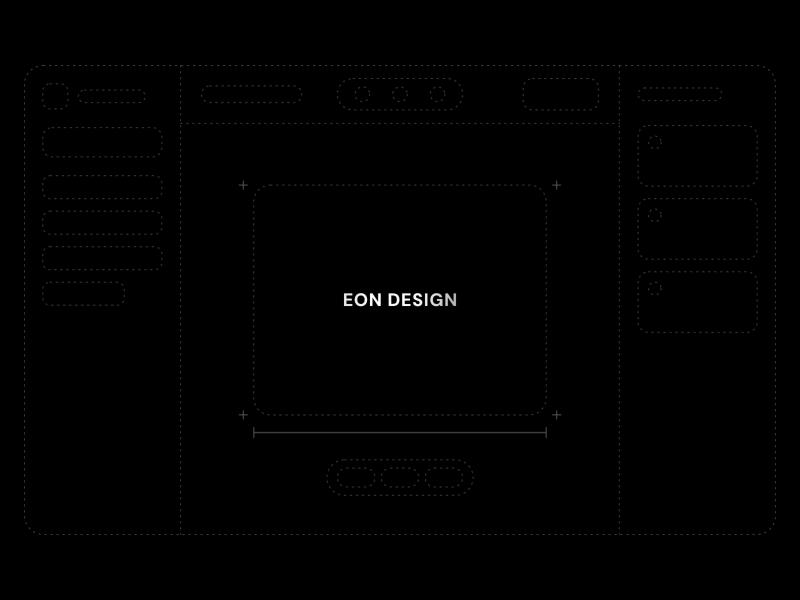
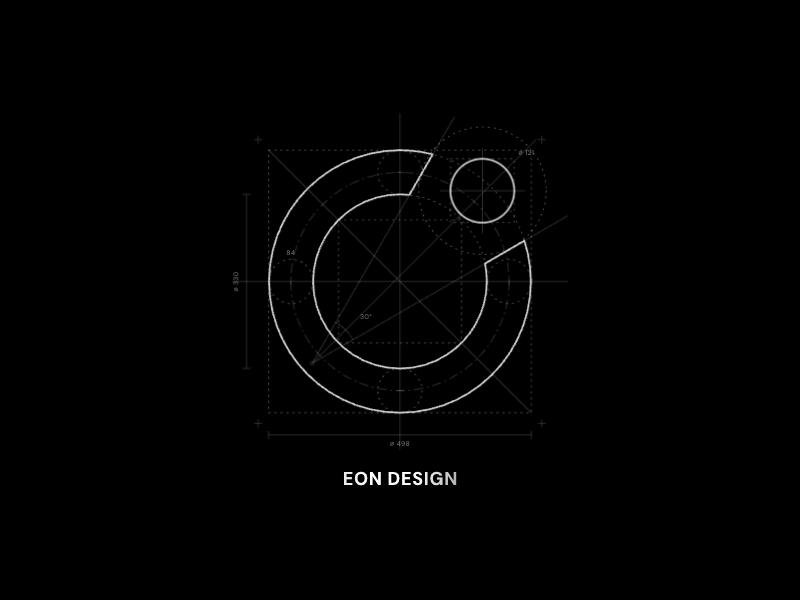
Loading screen: construct the Eon mark as a blueprint above the title

diff --git a/src/components/LoadingScreen.jsx b/src/components/LoadingScreen.jsx
@@ -1,56 +1,90 @@
 // Full-screen loading state, shared by the app splash (auth/chunk loads) and
-// the hub's first data fetch. Behind the title, a dotted blueprint of the hub
-// (sidebar, toolbar, canvas, comments) assembles piece by piece; a light
-// sweeps across the title. The status line is for screen readers only.
+// the hub's first data fetch. Above the title, the Eon mark is constructed
+// like a logo sheet: axes, circles and guide lines assemble, then the mark is
+// drawn over them. A light sweeps across the title. The status line is for
+// screen readers only.
 
-// Each part enters from the side it lives on. `i` is its place in the stagger.
+// Geometry of the mark, with the ring's centre at 0,0 (see public/favicon.svg).
+// R/r: outer and inner ring radius. M: the band's centre line. W: half the
+// band. The cut faces fan out 15 degrees either side of a 45 degree bisector
+// from V; the dot (D, radius DR) sits on that bisector, and a circle of twice
+// its radius touches both faces.
+const R = 249;
+const r = 165;
+const M = 207;
+const W = 42;
+const V = [-166.7, 155.3];
+const D = [156.2, -172.1];
+const DR = 60.5;
+const SQ = 116.7; // half side of the square inscribed in the inner circle
+const MARK = "M 236.0 -77.3 L 161.2 -34.0 C 163.5 -23.1 164.7 -11.7 164.7 -0.0 C 164.7 58.3 134.4 109.8 88.6 139.1 C 63.0 155.6 32.6 165.1 0.0 165.1 C -90.8 165.1 -164.7 91.0 -164.7 -0.0 C -164.7 -44.6 -147.0 -85.1 -118.2 -114.9 C -88.3 -145.9 -46.4 -165.2 0.0 -165.2 C 6.0 -165.2 11.9 -164.9 17.8 -164.2 L 61.6 -240.3 L 61.8 -241.1 C 42.1 -246.2 21.3 -248.9 0.0 -248.9 C -77.3 -248.9 -146.4 -213.3 -192.0 -157.6 C -227.2 -114.6 -248.2 -59.7 -248.2 0.0 C -248.2 137.3 -136.9 248.9 0.0 248.9 C 47.8 248.9 92.5 235.3 130.4 211.7 C 201.1 167.8 248.2 89.3 248.2 0.0 C 248.2 -27.0 243.9 -52.9 235.9 -77.3 L 236.0 -77.3Z";
+
+// `i` is a part's place in the stagger.
 const at = (i) => ({ "--i": i });
 
 export default function LoadingScreen({ children = "Loading…" }) {
   return (
     <div className="eon-loading-screen" role="status" aria-live="polite">
-      <svg className="eon-loading-blueprint" viewBox="0 0 720 450" aria-hidden="true">
-        <rect className="bp-fade" style={at(0)} x="0.5" y="0.5" width="719" height="449" rx="18" />
+      <svg className="eon-loading-blueprint" viewBox="-330 -330 660 660" aria-hidden="true">
+        {/* Axes, with ticks where the circles cross them */}
+        <path className="bp bp-fade bp-solid" style={at(0)} d="M-318 0H318M0 -318V318" />
+        <path
+          className="bp bp-fade bp-solid"
+          style={at(1)}
+          d={[R, -R, r, -r, M, -M].map((x) => `M${x} -6V6M-6 ${x}H6`).join("")}
+        />
 
-        {/* Sidebar */}
-        <line className="bp-fade" style={at(1)} x1="150" y1="0.5" x2="150" y2="449.5" />
-        <rect className="bp-left" style={at(2)} x="18" y="18" width="24" height="24" rx="7" />
-        <rect className="bp-left" style={at(2)} x="52" y="24" width="64" height="12" rx="6" />
-        <rect className="bp-left" style={at(3)} x="18" y="60" width="114" height="28" rx="9" />
-        <rect className="bp-left" style={at(4)} x="18" y="106" width="114" height="22" rx="7" />
-        <rect className="bp-left" style={at(5)} x="18" y="140" width="114" height="22" rx="7" />
-        <rect className="bp-left" style={at(6)} x="18" y="174" width="114" height="22" rx="7" />
-        <rect className="bp-left" style={at(7)} x="18" y="208" width="78" height="22" rx="7" />
+        {/* Bounding square and its registration marks */}
+        <rect className="bp bp-grow" style={at(1)} x={-R} y={-R} width={R * 2} height={R * 2} />
+        <path
+          className="bp bp-fade bp-solid"
+          style={at(2)}
+          d={[[-1, -1], [1, -1], [-1, 1], [1, 1]].map(([sx, sy]) => `M${sx * (R + 20) - 7} ${sy * (R + 20)}h14M${sx * (R + 20)} ${sy * (R + 20) - 7}v14`).join("")}
+        />
 
-        {/* Toolbar */}
-        <line className="bp-fade" style={at(2)} x1="150" y1="56" x2="570" y2="56" />
-        <rect className="bp-top" style={at(3)} x="170" y="20" width="96" height="16" rx="8" />
-        <rect className="bp-top" style={at(4)} x="300" y="13" width="120" height="30" rx="15" />
-        <circle className="bp-top" style={at(5)} cx="324" cy="28" r="7" />
-        <circle className="bp-top" style={at(5)} cx="360" cy="28" r="7" />
-        <circle className="bp-top" style={at(5)} cx="396" cy="28" r="7" />
-        <rect className="bp-top" style={at(6)} x="478" y="13" width="72" height="30" rx="9" />
+        {/* The ring: outer, inner and centre-line circles */}
+        <circle className="bp bp-grow" style={at(2)} r={R} />
+        <circle className="bp bp-grow" style={at(3)} r={r} />
+        <circle className="bp bp-grow bp-centerline" style={at(4)} r={M} />
 
-        {/* Comments */}
-        <line className="bp-fade" style={at(3)} x1="570" y1="0.5" x2="570" y2="449.5" />
-        <rect className="bp-right" style={at(4)} x="588" y="22" width="80" height="12" rx="6" />
-        <rect className="bp-right" style={at(5)} x="588" y="58" width="114" height="58" rx="10" />
-        <circle className="bp-right" style={at(5)} cx="604" cy="74" r="6" />
-        <rect className="bp-right" style={at(6)} x="588" y="128" width="114" height="58" rx="10" />
-        <circle className="bp-right" style={at(6)} cx="604" cy="144" r="6" />
-        <rect className="bp-right" style={at(7)} x="588" y="198" width="114" height="58" rx="10" />
-        <circle className="bp-right" style={at(7)} cx="604" cy="214" r="6" />
+        {/* Band circles: the ring is one circle thick all the way round */}
+        <circle className="bp bp-grow" style={at(5)} cx={M} r={W} />
+        <circle className="bp bp-grow" style={at(5)} cy={M} r={W} />
+        <circle className="bp bp-grow" style={at(6)} cx={-M} r={W} />
+        <circle className="bp bp-grow" style={at(6)} cy={-M} r={W} />
 
-        {/* Canvas: the frame the title sits in, its registration marks and measure */}
-        <rect className="bp-grow" style={at(6)} x="220" y="115" width="280" height="220" rx="16" />
-        <path className="bp-fade bp-solid" style={at(8)} d="M206 115h8M210 111v8M506 115h8M510 111v8M206 335h8M210 331v8M506 335h8M510 331v8" />
-        <path className="bp-fade bp-solid" style={at(9)} d="M220 352h280M220 347v10M500 347v10" />
+        {/* Square in the inner circle, and the diagonal square to the cut */}
+        <rect className="bp bp-grow" style={at(7)} x={-SQ} y={-SQ} width={SQ * 2} height={SQ * 2} />
+        <path className="bp bp-fade bp-solid" style={at(7)} d={`M${-R} ${-R}L${R} ${R}`} />
 
-        {/* State bar */}
-        <rect className="bp-bottom" style={at(8)} x="290" y="378" width="140" height="34" rx="17" />
-        <rect className="bp-bottom" style={at(9)} x="300" y="386" width="36" height="18" rx="9" />
-        <rect className="bp-bottom" style={at(9)} x="342" y="386" width="36" height="18" rx="9" />
-        <rect className="bp-bottom" style={at(9)} x="384" y="386" width="36" height="18" rx="9" />
+        {/* The cut: two faces and their bisector from V, with the angle between */}
+        <path
+          className="bp bp-fade bp-solid"
+          style={at(8)}
+          d={`M${V[0]} ${V[1]}L318.3 -124.7M${V[0]} ${V[1]}L257.6 -269M${V[0]} ${V[1]}L103.3 -312.4`}
+        />
+        <path className="bp bp-fade bp-solid" style={at(9)} d="M-121.7 77.4A90 90 0 0 1 -88.8 110.3" />
+        <circle className="bp bp-fade bp-solid" style={at(9)} cx={V[0]} cy={V[1]} r="3" />
+
+        {/* The dot: its square, its axes, and the circle that touches both faces */}
+        <rect className="bp bp-grow" style={at(10)} x={D[0] - DR} y={D[1] - DR} width={DR * 2} height={DR * 2} />
+        <path className="bp bp-fade bp-solid" style={at(10)} d={`M${D[0] - 80} ${D[1]}h160M${D[0]} ${D[1] - 80}v160`} />
+        <circle className="bp bp-grow" style={at(11)} cx={D[0]} cy={D[1]} r={DR * 2} />
+
+        {/* Measures */}
+        <path className="bp bp-fade bp-solid" style={at(12)} d={`M${-R} 291H${R}M${-R} 284v14M${R} 284v14`} />
+        <path className="bp bp-fade bp-solid" style={at(12)} d={`M-291 ${-r}V${r}M-298 ${-r}h14M-298 ${r}h14`} />
+        <text className="bp bp-fade" style={at(13)} x="0" y="312" textAnchor="middle">⌀ 498</text>
+        <g transform="rotate(-90 -306 0)">
+          <text className="bp bp-fade" style={at(13)} x="-306" y="0" textAnchor="middle">⌀ 330</text>
+        </g>
+        <text className="bp bp-fade" style={at(13)} x="-76" y="72">30°</text>
+        <text className="bp bp-fade" style={at(13)} x={D[0] + DR + 8} y={D[1] - DR - 8}>⌀ 121</text>
+        <text className="bp bp-fade" style={at(13)} x={-M} y={-W - 8} textAnchor="middle">84</text>
+
+        {/* The mark itself, drawn over its construction */}
+        <path className="bp-mark bp-draw" style={at(12)} pathLength="1" d={MARK} />
+        <circle className="bp-mark bp bp-grow" style={at(24)} cx={D[0]} cy={D[1]} r={DR} />
       </svg>
       <strong>Eon Design</strong>
       <span className="sr-only">{children}</span>

diff --git a/src/index.css b/src/index.css
@@ -86,19 +86,20 @@
 /* One band of light crosses the title left to right at a constant, unhurried
    speed (about 1.2s over the letters), then rests. */
 .eon-loading-screen strong { position: relative; display: block; width: var(--eon-loading-size); white-space: nowrap; text-align: center; font-size: 18px; font-weight: 700; letter-spacing: .04em; text-indent: .04em; text-transform: uppercase; color: #A2A2A6; background: linear-gradient(100deg, transparent 40%, #fff 48%, #fff 52%, transparent 60%) no-repeat, linear-gradient(90deg, #D6D6D9 25%, #A2A2A6 50%, #5E5D61 75%); background-size: 300% 100%, 100% 100%; background-position: 100% 0, 0 0; -webkit-background-clip: text; background-clip: text; -webkit-text-fill-color: transparent; animation: eon-loading-flash 2.6s linear infinite; }
-/* The blueprint: dotted outlines of the hub that assemble behind the title.
-   Each part fades in while moving the last few pixels into place from the
-   side it belongs to, 60ms apart. Transform and opacity only. */
-.eon-loading-blueprint { position: absolute; top: 50%; left: 50%; width: min(760px, 94vw); height: auto; overflow: visible; transform: translate(-50%, -50%); fill: none; stroke: rgba(214, 214, 217, .3); stroke-width: 1; stroke-linecap: round; stroke-dasharray: 1.5 4.5; pointer-events: none; }
-.eon-loading-blueprint > * { --dx: 0px; --dy: 0px; --s: 1; vector-effect: non-scaling-stroke; transform-box: fill-box; transform-origin: center; animation: eon-blueprint-in 600ms var(--ease-out) calc(var(--i, 0) * 60ms) both; }
-.eon-loading-blueprint .bp-left { --dx: -14px; }
-.eon-loading-blueprint .bp-right { --dx: 14px; }
-.eon-loading-blueprint .bp-top { --dy: -12px; }
-.eon-loading-blueprint .bp-bottom { --dy: 12px; }
+/* The blueprint: the Eon mark's construction, assembled above the title.
+   Guides fade in (circles and squares also settle from 96%), 60ms apart, then
+   the mark is drawn over them. Dotted lines are shapes, solid hairlines are
+   axes, guides and measures. */
+.eon-loading-blueprint { width: min(420px, 84vw, 58vh); height: auto; margin-bottom: 10px; overflow: visible; fill: none; stroke: rgba(214, 214, 217, .34); stroke-width: 1; stroke-linecap: round; stroke-dasharray: 1.5 4.5; pointer-events: none; }
+.eon-loading-blueprint .bp { --s: 1; vector-effect: non-scaling-stroke; transform-box: fill-box; transform-origin: center; animation: eon-blueprint-in 600ms var(--ease-out) calc(var(--i, 0) * 60ms) both; }
 .eon-loading-blueprint .bp-grow { --s: .96; }
-.eon-loading-blueprint .bp-solid { stroke-dasharray: none; stroke: rgba(214, 214, 217, .4); }
-@media (max-width: 640px) { .eon-loading-blueprint { width: 170vw; } }
-@keyframes eon-blueprint-in { from { opacity: 0; transform: translate(var(--dx), var(--dy)) scale(var(--s)); } to { opacity: 1; transform: none; } }
+.eon-loading-blueprint .bp-solid { stroke-dasharray: none; stroke: rgba(214, 214, 217, .2); }
+.eon-loading-blueprint .bp-centerline { stroke-dasharray: 9 4 1.5 4; stroke: rgba(214, 214, 217, .2); }
+.eon-loading-blueprint text { fill: rgba(214, 214, 217, .5); stroke: none; font-size: 13px; font-weight: 500; letter-spacing: .04em; }
+.eon-loading-blueprint .bp-mark { stroke: #D6D6D9; stroke-width: 3.2; stroke-linejoin: round; stroke-dasharray: none; vector-effect: none; }
+.eon-loading-blueprint .bp-draw { stroke-dasharray: 1; animation: eon-blueprint-draw 1000ms cubic-bezier(.65, 0, .35, 1) calc(var(--i, 0) * 60ms) both; }
+@keyframes eon-blueprint-in { from { opacity: 0; transform: scale(var(--s)); } to { opacity: 1; transform: none; } }
+@keyframes eon-blueprint-draw { from { stroke-dashoffset: 1; } to { stroke-dashoffset: 0; } }
 @keyframes eon-loading-fade { from { opacity: 0; } to { opacity: 1; } }
 @keyframes eon-loading-flash { 0% { background-position: 100% 0, 0 0; } 86%, 100% { background-position: 0% 0, 0 0; } }
 .eon-app-error { padding: 24px; }
@@ -1401,8 +1402,9 @@ button.eon-save-state { cursor: pointer; }
 @media (prefers-reduced-motion: reduce) {
   .eon-modal { transition-duration: 0ms; transform: none; }
   .eon-spin, .eon-app-spinner, .eon-loading-screen strong { animation: none; }
-  /* The blueprint still fades in, but nothing moves. */
-  .eon-loading-blueprint > * { --dx: 0px !important; --dy: 0px !important; --s: 1 !important; }
+  /* The blueprint still fades in, but nothing moves and the mark is not drawn on. */
+  .eon-loading-blueprint .bp { --s: 1 !important; }
+  .eon-loading-blueprint .bp-draw { animation-name: eon-loading-fade; animation-duration: 400ms; stroke-dasharray: none; }
   .eon-toast { animation: none; }
   .eon-live-dot, .eon-sync-chip.is-syncing { animation: none; }
 }

diff --git a/src/lib/changelog.js b/src/lib/changelog.js
@@ -22,14 +22,14 @@ export const CHANGELOG = [
     date: "2026-11-18",
     title: "Eon Design, with a metallic loading screen",
     image: "changelog/2026-11-18-loading-screen.png",
-    imageAlt: "The loading screen: the chrome title inside a dotted blueprint of the hub.",
+    imageAlt: "The loading screen: the Eon mark drawn over its construction lines, above the chrome title.",
     groups: [
       {
         label: "Design",
         items: [
           "The hub is now called Eon Design: in the browser tab, the Full view and Mirror tabs, and the login details admins copy.",
-          "The loading screen is just EON DESIGN in bold chrome, with a light sweeping slowly across it from left to right.",
-          "While it loads, a dotted blueprint of the hub assembles behind the title: sidebar, toolbar, canvas and comments.",
+          "The loading screen shows EON DESIGN in bold chrome, with a light sweeping slowly across it from left to right.",
+          "While it loads, the Eon mark is constructed above the title like a logo sheet: axes, circles, guides and measures assemble, then the mark is drawn over them.",
           "The Eon Design switcher at the top of the sidebar no longer shows a chevron.",
         ],
       },
